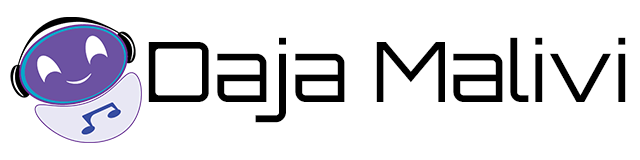
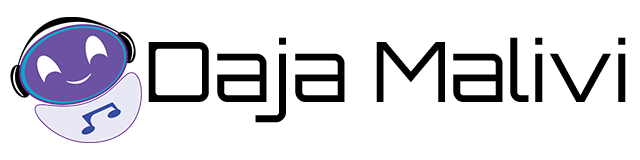
font and header fixed/added gradient

diff --git a/index.html b/index.html
@@ -7,6 +7,9 @@
   <meta http-equiv="X-UA-Compatible" content="IE=edge" />
   <meta name="viewport" content="width=device-width, initial-scale=1.0" />
   <link rel="stylesheet" href="https://cdn.jsdelivr.net/npm/bulma@0.9.4/css/bulma.min.css" />
+  <link rel="preconnect" href="https://fonts.googleapis.com">
+<link rel="preconnect" href="https://fonts.gstatic.com" crossorigin>
+<link href="https://fonts.googleapis.com/css2?family=Orbitron&display=swap" rel="stylesheet">
   <link rel="stylesheet" href="./assets/css/reset.css" />
   <link rel="stylesheet" href="./assets/css/style.css" />
   <title>DaJa-LiMaVi Home</title>
@@ -16,7 +19,7 @@
 <nav class="navbar" role="navigation" aria-label="main navigation">
   <div class="navbar-brand">
     <a class="navbar-item" href="./index.html">
-      <img id="home" src="./assets/images/DJ header.png" width="112" height="28" />
+      <img id="home" src="./assets/images/dj header.png" width="112" height="28" />
     </a>
     <a role="button" class="navbar-burger" aria-label="menu" aria-expanded="false" data-target="navbarBasicExample">
       <span aria-hidden="true"></span>
@@ -58,9 +61,9 @@
     <section class="container is-max-desktop">
       <section class="searchBar">
         <div class="field is-grouped px-5 py-5">
-          <p class="control is-expanded">
+          <!-- <p class="control is-expanded">
             <input id="searchTerm" class="input" type="text" placeholder="Let's explore the music universe" />
-          </p>
+          </p> -->
           <p class="control">
             <a title="search" id="search" class="button is-link is-rounded"> Search </a>
             <a title="log" id="log" class="button is-link is-rounded"> log </a>

diff --git a/assets/css/style.css b/assets/css/style.css
@@ -36,6 +36,7 @@
 }
 #resultsArea { /* styling for primary container for results of api fetches */
     background-image: url(../images/audiocontrols.jpg);
+    background-repeat: no-repeat;
 }
 
 #results { /* results area styling */
@@ -56,4 +57,12 @@
     justify-content:space-around;
     background-color: var(--silver) !important;
     color: var(--darkblue);
+}
+
+.navbar{
+background: linear-gradient(to left, #03001e, #7303c0, #ec38bc, #fdeff9);
+}
+
+#discover{
+    color:white;
 }
